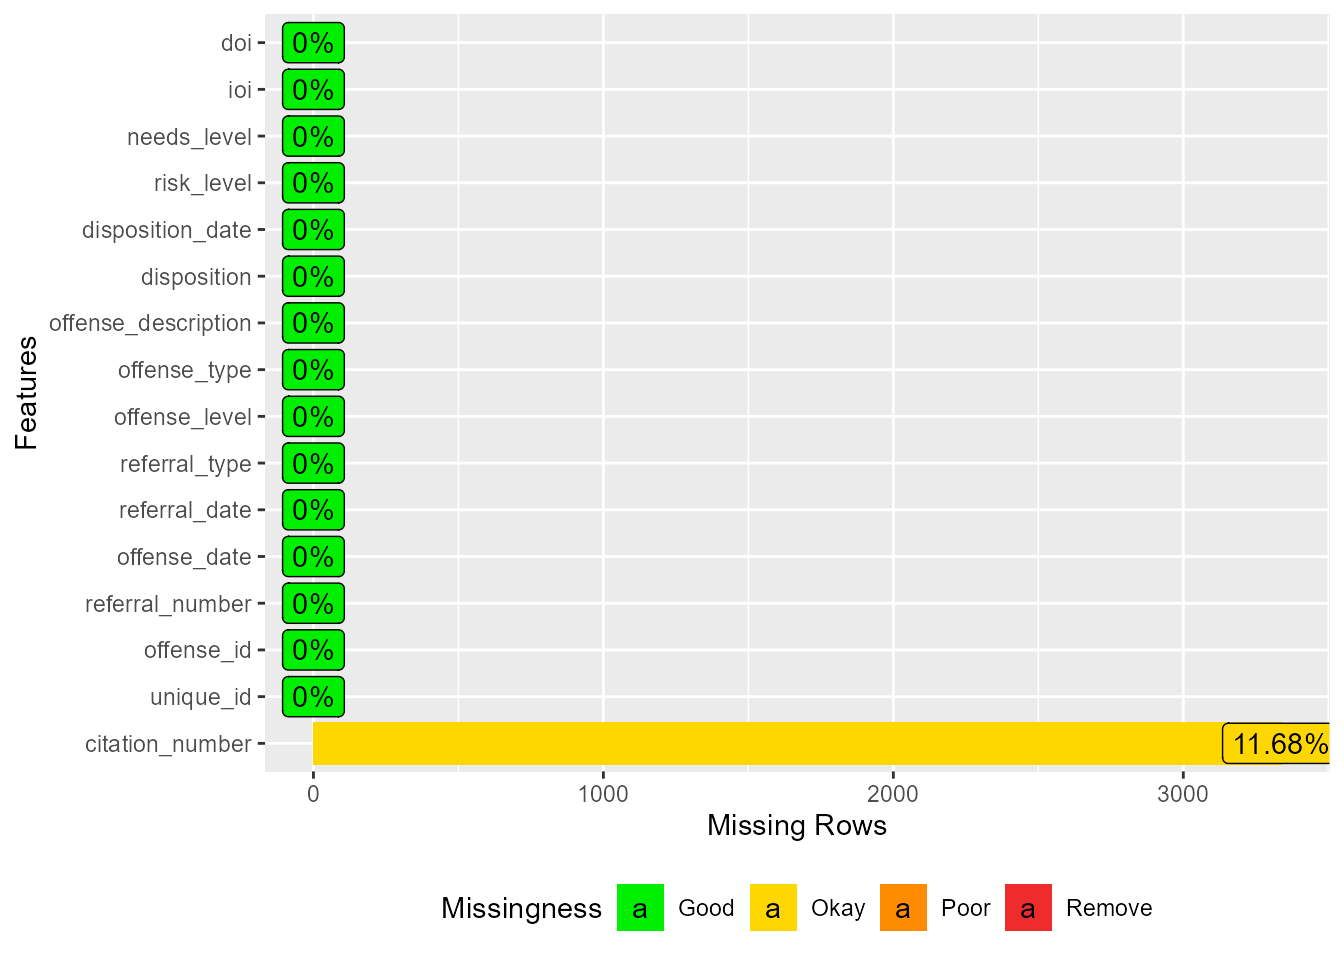
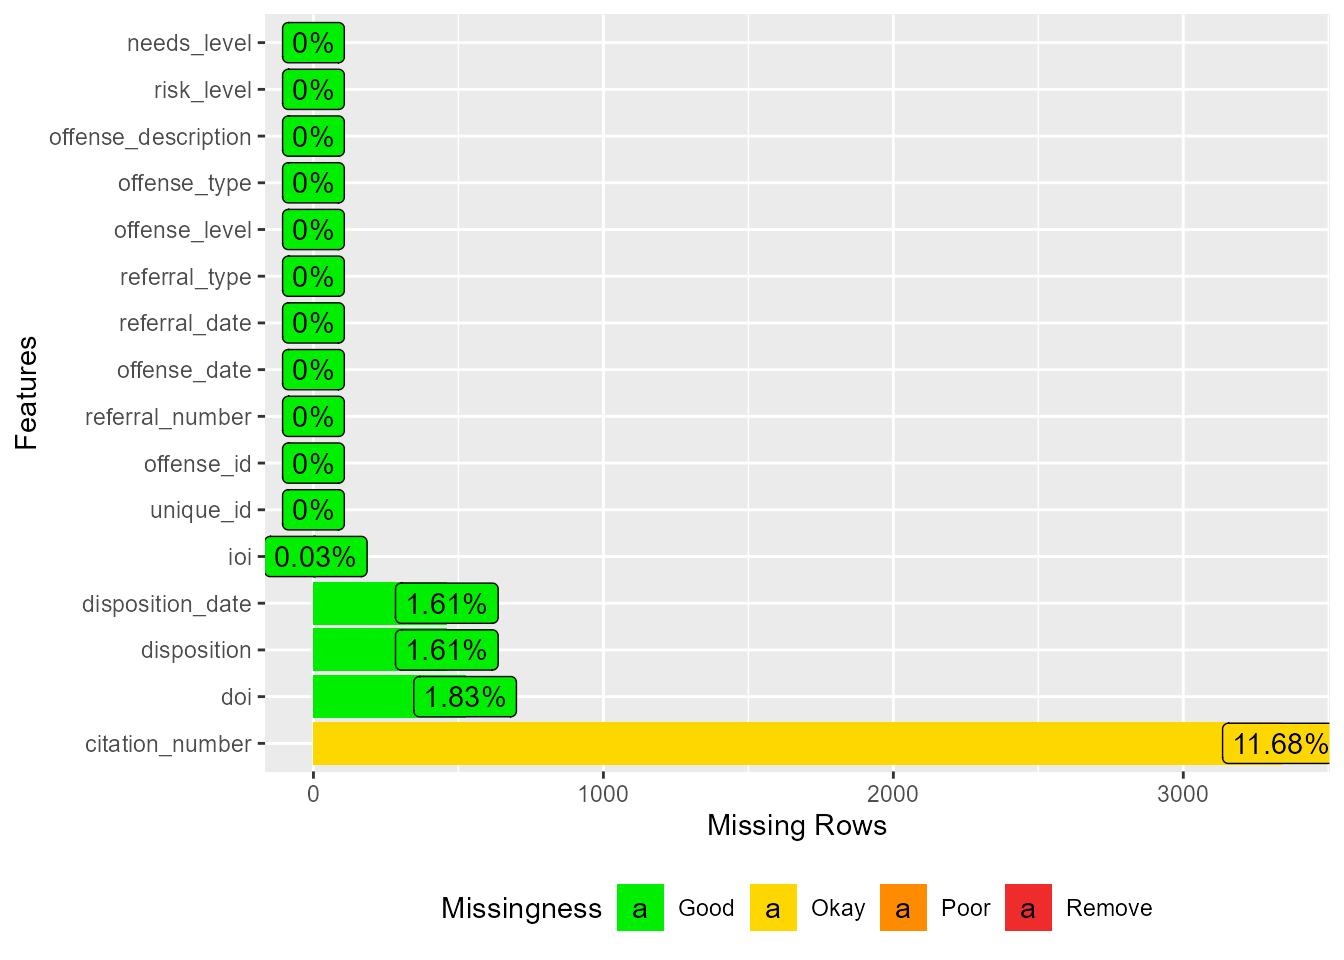
updated site structure

diff --git a/_site/jj_av_dallas_data_codebooks.html b/_site/jj_av_dallas_data_codebooks.html
@@ -87,22 +87,56 @@ ul.task-list li input[type="checkbox"] {
     <a class="nav-link" href="./index.html">
  <span class="menu-text">Project and Analysis Plan</span></a>
   </li>  
+  <li class="nav-item dropdown ">
+    <a class="nav-link dropdown-toggle" href="#" id="nav-menu-researchanalysis" role="button" data-bs-toggle="dropdown" aria-expanded="false">
+ <span class="menu-text">Research/Analysis</span>
+    </a>
+    <ul class="dropdown-menu dropdown-menu-end" aria-labelledby="nav-menu-researchanalysis">    
+        <li>
+    <a class="dropdown-item" href="./research_part_1.html">
+ <span class="dropdown-text">Who receives technical violations?</span></a>
+  </li>  
+        <li>
+    <a class="dropdown-item" href="./research_part_2.html">
+ <span class="dropdown-text">When and how often do youth receive technical violations?</span></a>
+  </li>  
+        <li>
+    <a class="dropdown-item" href="./research_part_3.html">
+ <span class="dropdown-text">Why do youth receive technical violations?</span></a>
+  </li>  
+        <li>
+    <a class="dropdown-item" href="./research_part_4.html">
+ <span class="dropdown-text">What happens to youth as the result of a technical violation?</span></a>
+  </li>  
+    </ul>
+  </li>
   <li class="nav-item">
     <a class="nav-link" href="./jj_av_dallas_questions_updates.html">
  <span class="menu-text">Questions and Updates</span></a>
   </li>  
   <li class="nav-item">
-    <a class="nav-link" href="./jj_av_dallas_preliminary_descriptives.html">
- <span class="menu-text">Sample Descriptives</span></a>
+    <a class="nav-link" href="./jj_av_dallas_create_analytic_files.html">
+ <span class="menu-text">Analytic File Prep</span></a>
   </li>  
-  <li class="nav-item">
-    <a class="nav-link active" href="./jj_av_dallas_data_codebooks.html" aria-current="page">
- <span class="menu-text">Codebooks</span></a>
+  <li class="nav-item dropdown ">
+    <a class="nav-link dropdown-toggle" href="#" id="nav-menu-sample-descriptives" role="button" data-bs-toggle="dropdown" aria-expanded="false">
+ <span class="menu-text">Sample Descriptives</span>
+    </a>
+    <ul class="dropdown-menu dropdown-menu-end" aria-labelledby="nav-menu-sample-descriptives">    
+        <li>
+    <a class="dropdown-item" href="./jj_av_dallas_preliminary_descriptives.html">
+ <span class="dropdown-text">Basic Descriptive Statistics</span></a>
   </li>  
-  <li class="nav-item">
-    <a class="nav-link" href="./jj_av_dallas_data_diagram_viz.html">
- <span class="menu-text">Data Diagram</span></a>
+        <li>
+    <a class="dropdown-item" href="./jj_av_dallas_data_codebooks.html">
+ <span class="dropdown-text">Codebooks</span></a>
   </li>  
+        <li>
+    <a class="dropdown-item" href="./jj_av_dallas_data_diagram_viz.html">
+ <span class="dropdown-text">Data Diagram</span></a>
+  </li>  
+    </ul>
+  </li>
   <li class="nav-item compact">
     <a class="nav-link" href="https://github.com/CSGJusticeCenter/jj-av-dallas"><i class="bi bi-fab fa-github" role="img">
 </i> 
@@ -896,11 +930,11 @@ ul.task-list li input[type="checkbox"] {
   </tr>
   <tr>
    <td style="text-align:center;"> total_missing_values </td>
-   <td style="text-align:center;"> 3,337 </td>
+   <td style="text-align:center;"> 4,788 </td>
   </tr>
   <tr>
    <td style="text-align:center;"> complete_rows </td>
-   <td style="text-align:center;"> 25,230 </td>
+   <td style="text-align:center;"> 24,820 </td>
   </tr>
   <tr>
    <td style="text-align:center;"> total_observations </td>
@@ -908,7 +942,7 @@ ul.task-list li input[type="checkbox"] {
   </tr>
   <tr>
    <td style="text-align:center;"> memory_usage </td>
-   <td style="text-align:center;"> 8,384,696 </td>
+   <td style="text-align:center;"> 8,229,808 </td>
   </tr>
 </tbody>
 </table>
@@ -1047,15 +1081,15 @@ ul.task-list li input[type="checkbox"] {
 <tbody>
   <tr>
    <td style="text-align:center;"> rows </td>
-   <td style="text-align:center;"> 7,197 </td>
+   <td style="text-align:center;"> 5,482 </td>
   </tr>
   <tr>
    <td style="text-align:center;"> columns </td>
-   <td style="text-align:center;"> 10 </td>
+   <td style="text-align:center;"> 11 </td>
   </tr>
   <tr>
    <td style="text-align:center;"> discrete_columns </td>
-   <td style="text-align:center;"> 10 </td>
+   <td style="text-align:center;"> 11 </td>
   </tr>
   <tr>
    <td style="text-align:center;"> continuous_columns </td>
@@ -1067,19 +1101,19 @@ ul.task-list li input[type="checkbox"] {
   </tr>
   <tr>
    <td style="text-align:center;"> total_missing_values </td>
-   <td style="text-align:center;"> 4,204 </td>
+   <td style="text-align:center;"> 3,419 </td>
   </tr>
   <tr>
    <td style="text-align:center;"> complete_rows </td>
-   <td style="text-align:center;"> 5,325 </td>
+   <td style="text-align:center;"> 4,076 </td>
   </tr>
   <tr>
    <td style="text-align:center;"> total_observations </td>
-   <td style="text-align:center;"> 71,970 </td>
+   <td style="text-align:center;"> 60,302 </td>
   </tr>
   <tr>
    <td style="text-align:center;"> memory_usage </td>
-   <td style="text-align:center;"> 916,864 </td>
+   <td style="text-align:center;"> 828,928 </td>
   </tr>
 </tbody>
 </table>
@@ -1151,6 +1185,11 @@ ul.task-list li input[type="checkbox"] {
    <td style="text-align:center;"> Disposition </td>
    <td style="text-align:center;"> disposition </td>
    <td style="text-align:center;"> Primary disposition (if any) of the listed VOP offense </td>
+  </tr>
+  <tr>
+   <td style="text-align:center;"> PrimaryOffenseAtDisposition </td>
+   <td style="text-align:center;"> primary_offense_at_disposition </td>
+   <td style="text-align:center;"> Whether the listed VOP offense was the primary offense at time of disposition </td>
   </tr>
 </tbody>
 </table>

diff --git a/_site/index.html b/_site/index.html
@@ -167,9 +167,8 @@ ul.task-list li input[type="checkbox"] {
 <p>This is the JJ AV Dallas County project databook. FOR INTERNAL CSG JC USE ONLY.</p>
 <p><strong>Project Background</strong></p>
 <p>The CSG Justice Center is partnering with sites to assess and improve their approach to juvenile probation condition setting and enforcement, following the principles laid out in the Breaking the Rules Toolkit. CSG Justice Center staff will assess the use of graduated responses, technical violations, and revocations, including type, frequency, who is receiving them, why, and the outcomes. Case-level data analysis will describe the population of youth on probation, including use of technical violations and reasons for violations.</p>
-<p><br><br></p>
-<p><strong>Research Questions and Methodological Approach</strong></p>
 <p><br></p>
+<p><strong>Research Questions and Methodological Approach</strong></p>
 <p><strong>Who receives technical violations?</strong></p>
 <ul>
 <li><p>What proportion of youth on probation supervision receive a technical violation during a probation term? How does this vary across race/ethnicity, sex, and risk level?</p></li>
@@ -193,59 +192,58 @@ ul.task-list li input[type="checkbox"] {
 <li><p>What is the average length of time a supervision episode is extended as the result of a technical violation? How does this vary across race/ethnicity, sex, and risk level?</p></li>
 <li><p>In Dallas, probation can file a violation to get a kid into a 30 day residential program. The violation does not go to the prosecutor. If the kid is successful in the placement, then the department dismisses the violation. How often does this happen?</p></li>
 </ul>
-<p><br></p>
 <p><em>All questions will be answered descriptively. We will assess unadjusted differences in the likelihood of technical violation, time to violation, number of violations, and outcomes of violations across race/ethnicity, sex, and risk level using relative rate index calculations (to show differences in rates between two groups) and ANOVA (to identify difference in means across several groups).</em></p>
-<p><br><br></p>
+<p><br></p>
 <p><strong>Anticipated Project Timeline and Next Steps</strong></p>
+<p><em>Data Request and Executed Data Sharing Agreement</em></p>
 <ul>
-<li><em>Data Request and Executed Data Sharing Agreement</em></li>
+<li>November – December 2022</li>
 </ul>
-<p>November – December 2022</p>
+<p><em>Date Extract Delivered</em></p>
 <ul>
-<li><em>Date Extract Delivered</em></li>
+<li><p>Original extract delivered January 2023</p></li>
+<li><p>Updated extract delivered 2/22/23</p></li>
 </ul>
-<p>Original extract delivered January 2023</p>
-<p>Updated extract delivered 2/22/23</p>
+<p><em>Data Cleaning</em></p>
 <ul>
-<li><em>Data Cleaning</em></li>
+<li>Feb- March 2023</li>
 </ul>
-<p>Feb- March 2023</p>
+<p><em>Review Revised Research Plan with Policy Team</em></p>
 <ul>
-<li><em>Review Revised Research Plan with Policy Team</em></li>
+<li>By Mar 31</li>
 </ul>
-<p>By Mar 31</p>
+<p><em>Complete Analytic File</em></p>
 <ul>
-<li><em>Complete Analytic File</em></li>
+<li>By April 7</li>
 </ul>
-<p>By April 7</p>
+<p><em>Data Analysis</em></p>
 <ul>
-<li><em>Data Analysis</em></li>
+<li>March- April 2023</li>
 </ul>
-<p>March- April 2023</p>
+<p><em>Review preliminary findings with Policy Team</em></p>
 <ul>
-<li><em>Review preliminary findings with Policy Team</em></li>
+<li>By April 28th</li>
 </ul>
-<p>By April 28th</p>
+<p><em>Revise/update</em></p>
 <ul>
-<li><em>Revise/update</em></li>
+<li>By May 12th</li>
 </ul>
-<p>By May 12th</p>
+<p><em>Research Division QA</em></p>
 <ul>
-<li><em>Research Division QA</em></li>
+<li>April- May 2023</li>
 </ul>
-<p>April- May 2023</p>
+<p><em>Review findings with Dallas research team</em></p>
 <ul>
-<li><em>Review findings with Dallas research team</em></li>
+<li>By May 19th</li>
 </ul>
-<p>By May 19th</p>
+<p><em>Develop visualizations for PPT</em></p>
 <ul>
-<li><em>Develop visualizations for PPT</em></li>
+<li>May 22-June 9</li>
 </ul>
-<p>May 22-June 9</p>
+<p><em>Presentation of Findings and Recommendations</em></p>
 <ul>
-<li><em>Presentation of Findings and Recommendations</em></li>
+<li>June 2022</li>
 </ul>
-<p>June 2022</p>
 <p><br></p>
 
 
